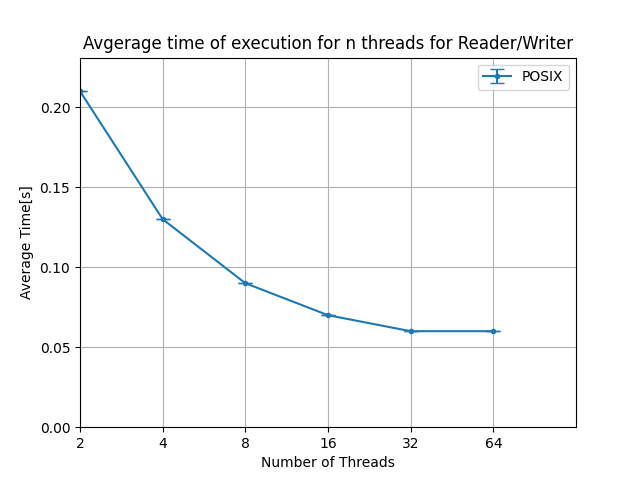
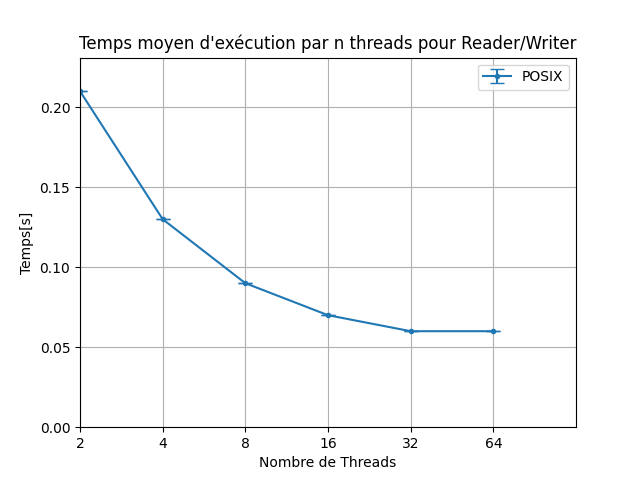
philo.csv + chgmt graph

Changed region(s): [[0.125, 0.0625, 0.9062, 0.125], [0.4062, 0.9375, 0.625, 1.0], [0.0312, 0.375, 0.0625, 0.625]]

diff --git a/Projet1/Plot/plot.py b/Projet1/Plot/plot.py
@@ -59,17 +59,17 @@ def plot(csv1, csv2, csv3, titre, name1, name2, name3):
     plt.legend()
 
     #nom des axes et titres 
-    plt.xlabel('Number of Threads')
-    plt.ylabel("Average Time[s]")
-    plt.title('Avgerage time of execution for n threads for ' + titre)
+    plt.xlabel('Nombre de Threads')
+    plt.ylabel("Temps[s]")
+    plt.title("Temps moyen d'exécution par n threads pour "  + titre)
   
     plt.grid(True)
-    plt.savefig(titre + ".png")
+    plt.savefig("Produceur_Consumer" + ".png")
     #plt.show()
     plt.close()
 
 #Création des plots
-plot(philo, my_philo, philo_ttas, "Philosophes","POSIX", "TAS", "TTAS")
+#plot(philo, my_philo, philo_ttas, "Philosophes","POSIX", "TAS", "TTAS")
 #plot(rw, my_rw, rw_ttas,"Reader/Writer", "POSIX", "TAS", "TTAS")
-#plot(pro_cons, my_pro_cons, pro_cons_ttas,"Produceur/Consumer", "POSIX", "TAS", "TTAS")
+plot(pro_cons, my_pro_cons, pro_cons_ttas,"Produceur/Consumer", "POSIX", "TAS", "TTAS")
 #plot(tas, ttas, ttas, "Test-And(-Test-And)-Set", "TAS", "", "TTAS")

diff --git a/Projet1/Part2/myphilosophe.c b/Projet1/Part2/myphilosophe.c
@@ -1,7 +1,7 @@
 #include "test_and_set.h"
 #include "function_tac.c"
 
-#define CYCLES 1000000
+#define CYCLES 100000
 
 int PHILO;
 my_mutex_t *baguette;

diff --git a/Projet1/Part2/philosophe_ttas.c b/Projet1/Part2/philosophe_ttas.c
@@ -1,7 +1,7 @@
 #include "test_and_set.h"
 #include "function_tac.c"
 
-#define CYCLES 1000000
+#define CYCLES 100000
 
 int PHILO;
 my_mutex_t *baguette;

diff --git a/Projet1/Part1/philosophe.c b/Projet1/Part1/philosophe.c
@@ -4,7 +4,7 @@
 #include <semaphore.h>
 #include <unistd.h>
 
-#define CYCLES 1000000
+#define CYCLES 100000
 
 int PHILO;
 pthread_mutex_t *baguette;
